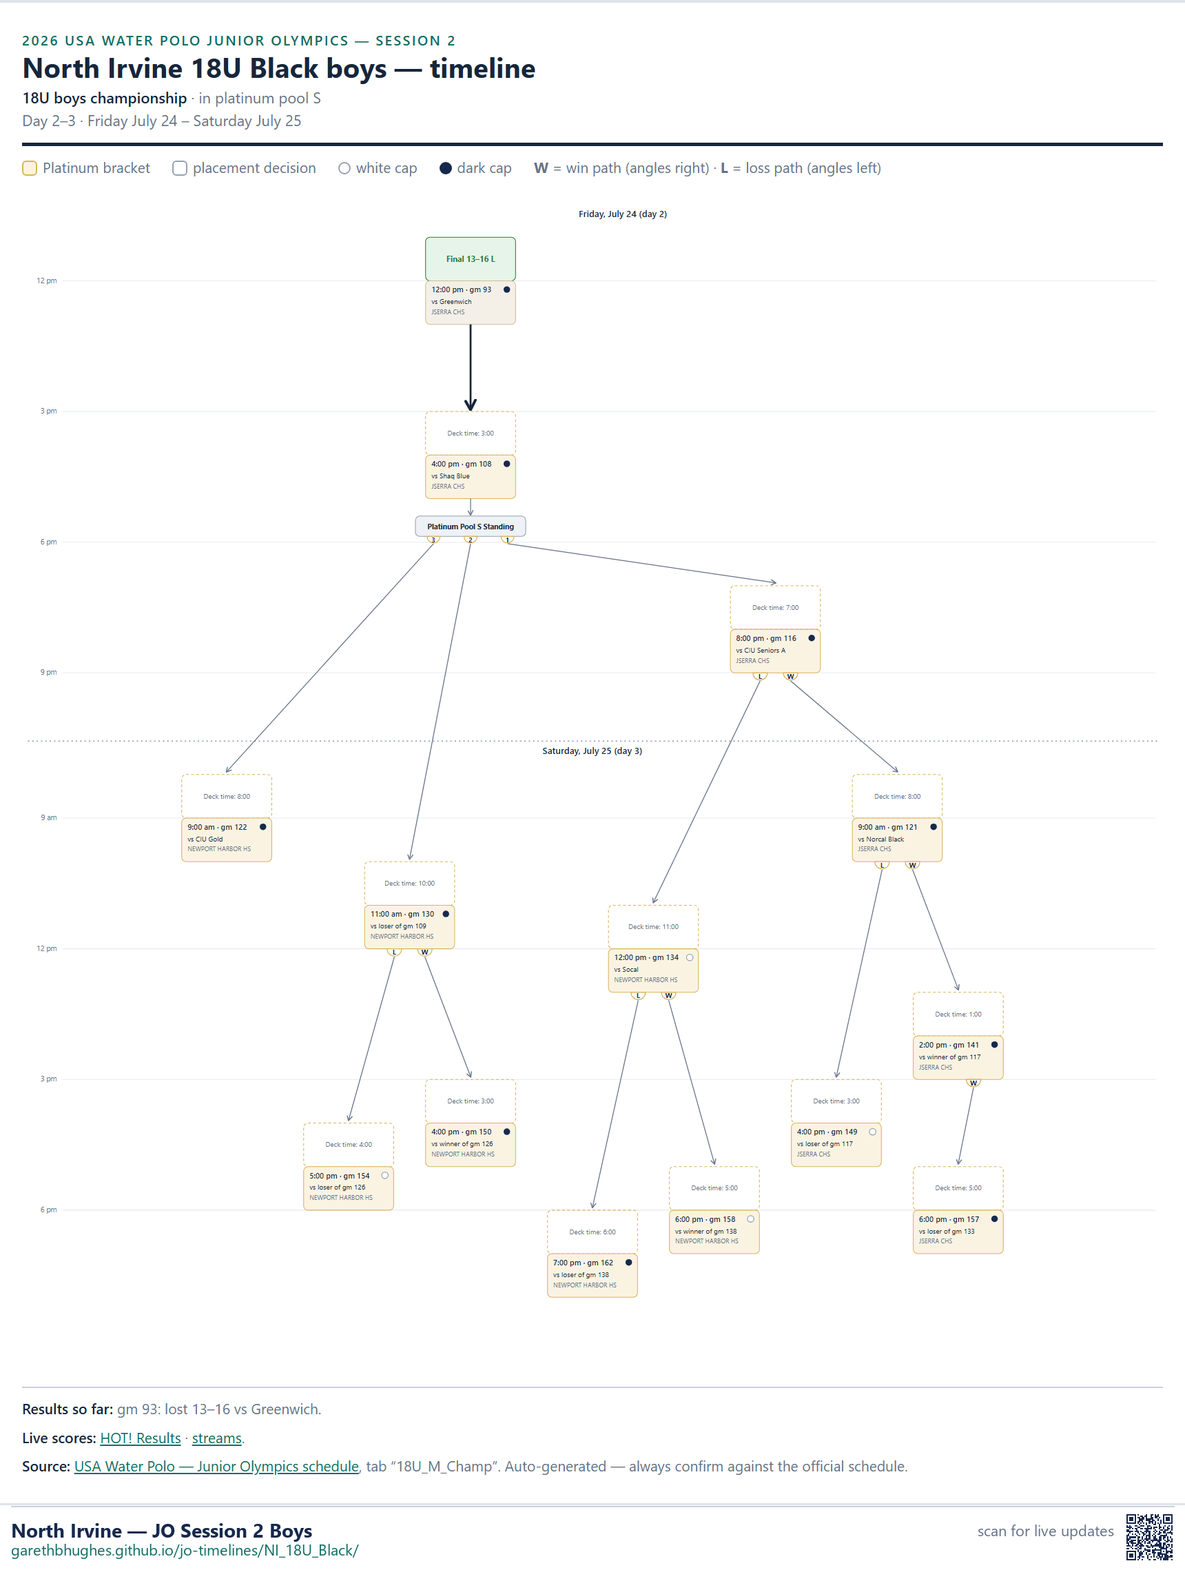
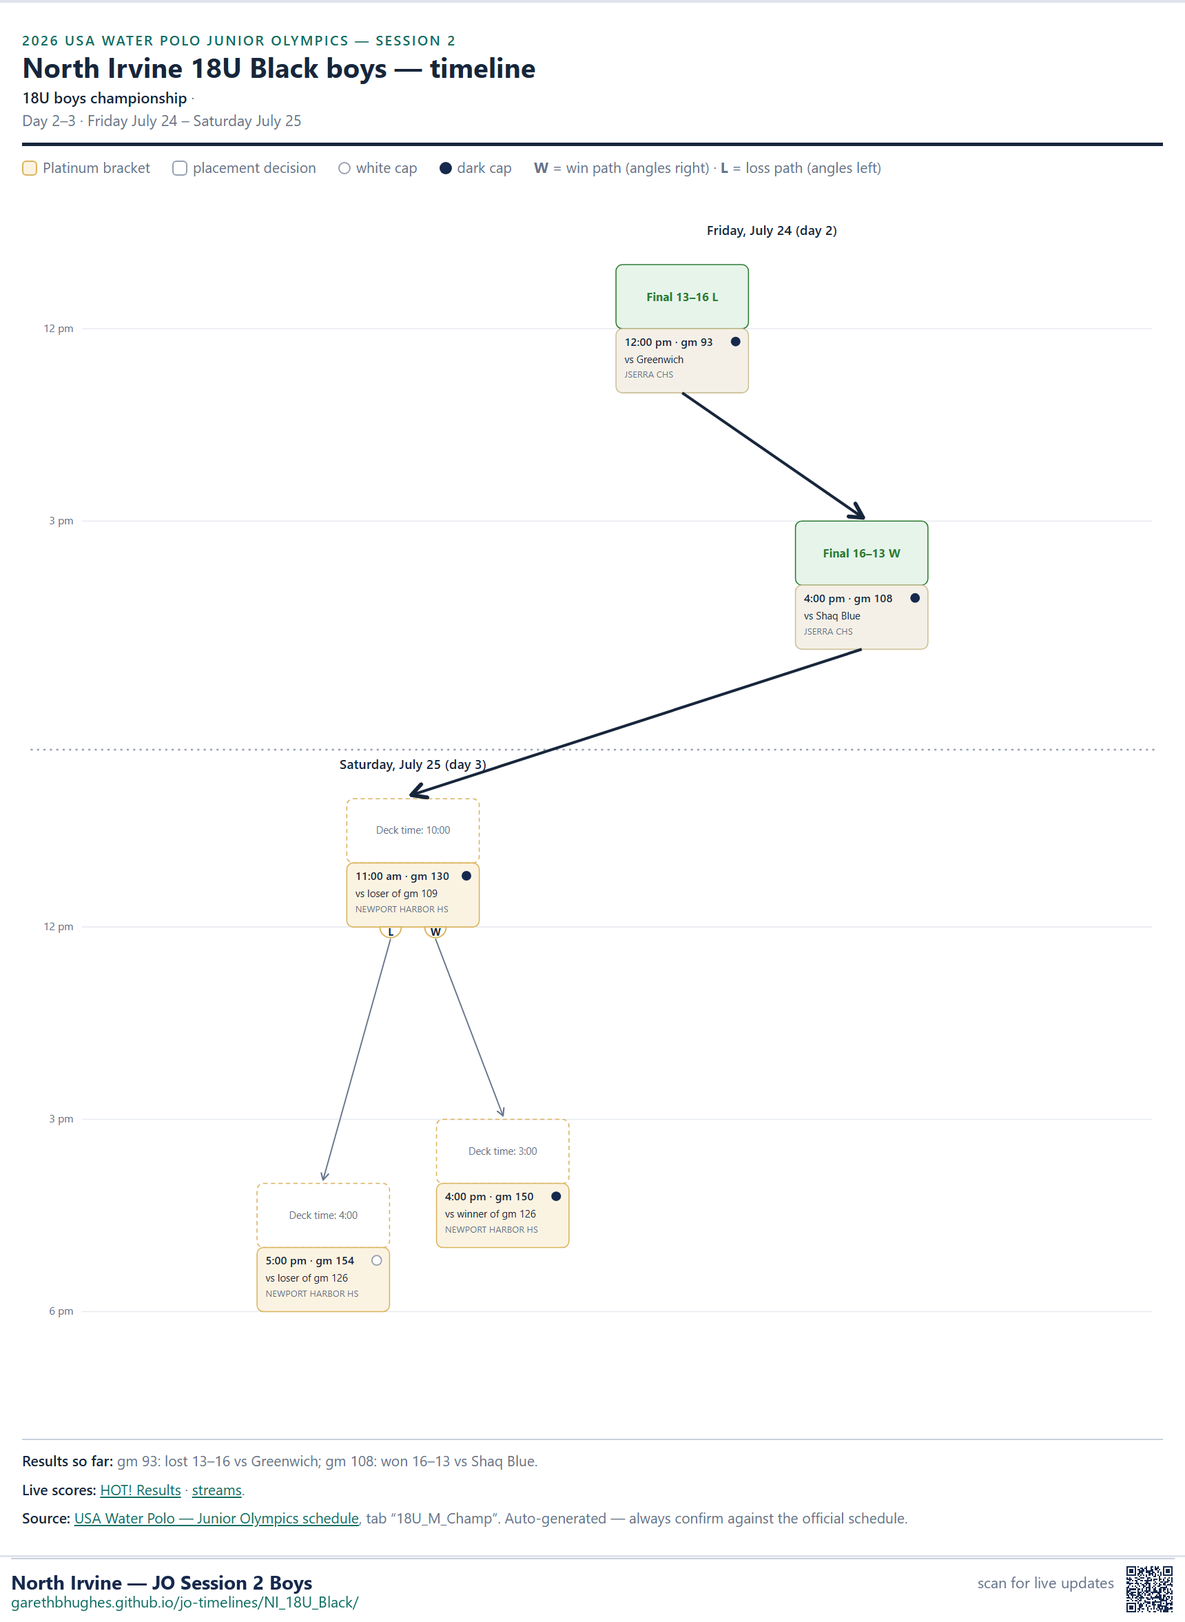
refresh 2026-07-24T18:23

diff --git a/NI_18U_Black/index.html b/NI_18U_Black/index.html
@@ -55,11 +55,11 @@ h2 { font-size:14px; text-transform:uppercase; letter-spacing:.06em; color:var(-
 <a class="back" href="../">← all North Irvine teams</a>
 <header class="site" style="margin-top:8px"><p class="eyebrow">2026 USA Water Polo Junior Olympics — Session 2</p>
 <h1>North Irvine 18U Black boys</h1>
-<p class="stamp"><b>18U boys championship</b> · in platinum pool S<br>
-Last verified against the master schedule at Friday July 24, 6:08 PM</p></header>
-<div class="next"><p class="next-h">Next game</p><p class="next-opp">vs Shaq Blue</p><dl class="next-grid"><dt>When</dt><dd>Friday July 24 · 4:00 pm</dd><dt>Deck</dt><dd>3:00</dd><dt>Where</dt><dd>JSERRA CHS</dd><dt>Caps</dt><dd>dark caps</dd><dt>Game</dt><dd>#108</dd></dl><p class="scout"><b>Scouting report:</b> Shaq Blue (seed 29) is 2–2 in this session so far — beat Pegasus Blue 20–8; beat Foothill Red A 15–7; lost to La Jolla United A 7–13; lost to Greenwich 7–12. They&#x27;re averaging 12.2 goals for and 10 against. Common opponent Greenwich: you lost 13–16, they lost 7–12.</p></div>
+<p class="stamp"><b>18U boys championship</b> · <br>
+Last verified against the master schedule at Friday July 24, 6:23 PM</p></header>
+<div class="next"><p class="next-h">Next game</p><p class="next-opp">vs loser of gm 109</p><dl class="next-grid"><dt>When</dt><dd>Saturday July 25 · 11:00 am</dd><dt>Deck</dt><dd>10:00</dd><dt>Where</dt><dd>NEWPORT HARBOR HS</dd><dt>Caps</dt><dd>dark caps</dd><dt>Game</dt><dd>#130</dd></dl></div>
 
 <img class="tl" src="portrait.png" alt="Upcoming games timeline for North Irvine 18U Black boys">
-<h2>Change log</h2><ul class="log"><li><time>4:52 PM</time>Game 121 set: vs Norcal Black, 9:00 am at JSERRA CHS.</li><li><time>4:52 PM</time>Game 122 set: vs CIU Gold, 9:00 am at NEWPORT HARBOR HS.</li><li><time>4:52 PM</time>Game 134 set: vs Socal, 12:00 pm at NEWPORT HARBOR HS.</li><li><time>4:52 PM</time>Game 116 set: vs CIU Seniors A, 8:00 pm at JSERRA CHS.</li><li><time>3:31 PM</time>Game 93 score updated (vs Greenwich).</li><li><time>3:31 PM</time>Game 108 set: vs Shaq Blue, 4:00 pm at JSERRA CHS.</li><li><time>3:27 PM</time>Game 93 score updated (vs Greenwich).</li><li><time>3:27 PM</time>Game 108 set: vs Shaq Blue, 4:00 pm at JSERRA CHS.</li><li><time>7:00 AM</time>Game 11 score updated (vs San Francisco Warriors).</li><li><time>7:00 AM</time>Game 77 score updated (vs gold pool S).</li><li><time>7:00 AM</time>Game 79 score updated (vs platinum pool O).</li><li><time>7:00 AM</time>Game 93 score updated (vs platinum pool S).</li><li><time>7:00 AM</time>Game 31 score updated (vs winner of gm 6).</li><li><time>7:00 AM</time>Game 87 score updated (vs gold pool O).</li><li><time>7:00 AM</time>Game 89 score updated (vs platinum pool R).</li><li><time>7:00 AM</time>Game 91 score updated (vs gold pool P).</li><li><time>7:00 AM</time>Game 36 score updated (vs loser of gm 6).</li><li><time>7:00 AM</time>Game 92 set: vs gold pool S, 2:00 pm at MARINA HS.</li><li><time>7:00 AM</time>Game 94 set: vs platinum pool O, 2:00 pm at NORTHWOOD HS.</li><li><time>7:00 AM</time>Game 104 set: vs platinum pool R, 4:00 pm at NORTHWOOD HS.</li><li><time>7:00 AM</time>Game 106 set: vs gold pool P, 4:00 pm at WESTMINSTER HS.</li><li><time>7:00 AM</time>Game 107 set: vs gold pool O, 4:00 pm at MARINA HS.</li><li><time>7:00 AM</time>Game 108 set: vs platinum pool S, 4:00 pm at JSERRA CHS.</li><li><time>7:00 AM</time>Game 51 score updated (vs loser of gm 41).</li><li><time>7:00 AM</time>Game 56 score updated (vs winner of gm 45).</li><li><time>1:56 PM</time>Game 93 score updated (vs Greenwich).</li><li><time>1:11 PM</time>Game 93 set: vs Greenwich, 12:00 pm at JSERRA CHS.</li><li><time>1:11 PM</time>Game 108 set: vs Shaq Blue, 4:00 pm at JSERRA CHS.</li><li><time>7:00 AM</time>Game 11 score updated (vs San Francisco Warriors).</li><li><time>7:00 AM</time>Game 77 set: vs gold pool S, 11:00 am at MARINA HS.</li><li><time>7:00 AM</time>Game 79 score updated (vs platinum pool O).</li><li><time>7:00 AM</time>Game 93 set: vs platinum pool S, 12:00 pm at JSERRA CHS.</li><li><time>7:00 AM</time>Game 31 score updated (vs winner of gm 6).</li><li><time>7:00 AM</time>Game 87 set: vs gold pool O, 1:00 pm at MARINA HS.</li><li><time>7:00 AM</time>Game 89 set: vs platinum pool R, 1:00 pm at NORTHWOOD HS.</li><li><time>7:00 AM</time>Game 91 set: vs gold pool P, 1:00 pm at WESTMINSTER HS.</li><li><time>7:00 AM</time>Game 36 score updated (vs loser of gm 6).</li><li><time>7:00 AM</time>Game 92 set: vs gold pool S, 2:00 pm at MARINA HS.</li><li><time>7:00 AM</time>Game 94 set: vs platinum pool O, 2:00 pm at NORTHWOOD HS.</li><li><time>7:00 AM</time>Game 104 set: vs platinum pool R, 4:00 pm at NORTHWOOD HS.</li></ul>
-<div class="fineprint"><p><b>Results so far:</b> gm 93: lost 13–16 vs Greenwich.</p><p><b>Live scores:</b> <a href="https://kahunaevents.org">HOT! Results</a> · <a href="https://gols.co/2026-usawp-junior-olympics-session-2/">streams</a>.</p><p><b>Source:</b> <a href="https://usawaterpolo.org/sports/2018/12/19/junior-olympics.aspx#schedule">USA Water Polo — Junior Olympics schedule</a>, tab “18U_M_Champ”. Auto-generated — always confirm against the official schedule.</p></div>
+<h2>Change log</h2><ul class="log"><li><time>6:23 PM</time>Game 130 set: vs loser of gm 109, 11:00 am at NEWPORT HARBOR HS.</li><li><time>6:23 PM</time>Game 108 score updated (vs Shaq Blue).</li><li><time>4:52 PM</time>Game 121 set: vs Norcal Black, 9:00 am at JSERRA CHS.</li><li><time>4:52 PM</time>Game 122 set: vs CIU Gold, 9:00 am at NEWPORT HARBOR HS.</li><li><time>4:52 PM</time>Game 134 set: vs Socal, 12:00 pm at NEWPORT HARBOR HS.</li><li><time>4:52 PM</time>Game 116 set: vs CIU Seniors A, 8:00 pm at JSERRA CHS.</li><li><time>3:31 PM</time>Game 93 score updated (vs Greenwich).</li><li><time>3:31 PM</time>Game 108 set: vs Shaq Blue, 4:00 pm at JSERRA CHS.</li><li><time>3:27 PM</time>Game 93 score updated (vs Greenwich).</li><li><time>3:27 PM</time>Game 108 set: vs Shaq Blue, 4:00 pm at JSERRA CHS.</li><li><time>7:00 AM</time>Game 11 score updated (vs San Francisco Warriors).</li><li><time>7:00 AM</time>Game 77 score updated (vs gold pool S).</li><li><time>7:00 AM</time>Game 79 score updated (vs platinum pool O).</li><li><time>7:00 AM</time>Game 93 score updated (vs platinum pool S).</li><li><time>7:00 AM</time>Game 31 score updated (vs winner of gm 6).</li><li><time>7:00 AM</time>Game 87 score updated (vs gold pool O).</li><li><time>7:00 AM</time>Game 89 score updated (vs platinum pool R).</li><li><time>7:00 AM</time>Game 91 score updated (vs gold pool P).</li><li><time>7:00 AM</time>Game 36 score updated (vs loser of gm 6).</li><li><time>7:00 AM</time>Game 92 set: vs gold pool S, 2:00 pm at MARINA HS.</li><li><time>7:00 AM</time>Game 94 set: vs platinum pool O, 2:00 pm at NORTHWOOD HS.</li><li><time>7:00 AM</time>Game 104 set: vs platinum pool R, 4:00 pm at NORTHWOOD HS.</li><li><time>7:00 AM</time>Game 106 set: vs gold pool P, 4:00 pm at WESTMINSTER HS.</li><li><time>7:00 AM</time>Game 107 set: vs gold pool O, 4:00 pm at MARINA HS.</li><li><time>7:00 AM</time>Game 108 set: vs platinum pool S, 4:00 pm at JSERRA CHS.</li><li><time>7:00 AM</time>Game 51 score updated (vs loser of gm 41).</li><li><time>7:00 AM</time>Game 56 score updated (vs winner of gm 45).</li><li><time>1:56 PM</time>Game 93 score updated (vs Greenwich).</li><li><time>1:11 PM</time>Game 93 set: vs Greenwich, 12:00 pm at JSERRA CHS.</li><li><time>1:11 PM</time>Game 108 set: vs Shaq Blue, 4:00 pm at JSERRA CHS.</li><li><time>7:00 AM</time>Game 11 score updated (vs San Francisco Warriors).</li><li><time>7:00 AM</time>Game 77 set: vs gold pool S, 11:00 am at MARINA HS.</li><li><time>7:00 AM</time>Game 79 score updated (vs platinum pool O).</li><li><time>7:00 AM</time>Game 93 set: vs platinum pool S, 12:00 pm at JSERRA CHS.</li><li><time>7:00 AM</time>Game 31 score updated (vs winner of gm 6).</li><li><time>7:00 AM</time>Game 87 set: vs gold pool O, 1:00 pm at MARINA HS.</li><li><time>7:00 AM</time>Game 89 set: vs platinum pool R, 1:00 pm at NORTHWOOD HS.</li><li><time>7:00 AM</time>Game 91 set: vs gold pool P, 1:00 pm at WESTMINSTER HS.</li><li><time>7:00 AM</time>Game 36 score updated (vs loser of gm 6).</li><li><time>7:00 AM</time>Game 92 set: vs gold pool S, 2:00 pm at MARINA HS.</li></ul>
+<div class="fineprint"><p><b>Results so far:</b> gm 93: lost 13–16 vs Greenwich; gm 108: won 16–13 vs Shaq Blue.</p><p><b>Live scores:</b> <a href="https://kahunaevents.org">HOT! Results</a> · <a href="https://gols.co/2026-usawp-junior-olympics-session-2/">streams</a>.</p><p><b>Source:</b> <a href="https://usawaterpolo.org/sports/2018/12/19/junior-olympics.aspx#schedule">USA Water Polo — Junior Olympics schedule</a>, tab “18U_M_Champ”. Auto-generated — always confirm against the official schedule.</p></div>
 </div></body></html>

diff --git a/NI_12U_Red/index.html b/NI_12U_Red/index.html
@@ -56,10 +56,10 @@ h2 { font-size:14px; text-transform:uppercase; letter-spacing:.06em; color:var(-
 <header class="site" style="margin-top:8px"><p class="eyebrow">2026 USA Water Polo Junior Olympics — Session 2</p>
 <h1>North Irvine 12U Red boys</h1>
 <p class="stamp"><b>12U boys classic</b> · in bronze pool S<br>
-Last verified against the master schedule at Friday July 24, 6:08 PM</p></header>
+Last verified against the master schedule at Friday July 24, 6:23 PM</p></header>
 <div class="next"><p class="next-h">Next game</p><p class="next-opp">vs 1st in bronze pool M</p><dl class="next-grid"><dt>When</dt><dd>Saturday July 25 · 9:40 am</dd><dt>Deck</dt><dd>8:40</dd><dt>Where</dt><dd>GOLDEN WEST COLLEGE 2</dd><dt>Caps</dt><dd>cap TBD</dd><dt>Game</dt><dd>#116</dd></dl></div>
 
 <img class="tl" src="portrait.png" alt="Upcoming games timeline for North Irvine 12U Red boys">
-<h2>Change log</h2><ul class="log"><li><time>4:36 PM</time>Game 132 set: vs bronze pool V, 1:50 pm at OCEAN VIEW HS 2.</li><li><time>4:21 PM</time>Game 116 set: vs 1st in bronze pool M, 9:40 am at GOLDEN WEST COLLEGE 2.</li><li><time>4:21 PM</time>Game 131 set: vs 2nd in bronze pool M, 9:40 am at LAGUNA HILLS HS.</li><li><time>4:21 PM</time>Game 97 score updated (vs American River).</li><li><time>3:31 PM</time>Game 81 score updated (vs Foothill Black).</li><li><time>3:31 PM</time>Game 97 set: vs American River, 2:30 pm at OCEAN VIEW HS 2.</li><li><time>3:31 PM</time>Game 111 set: vs Orwp RED, 5:50 pm at OCEAN VIEW HS 2.</li><li><time>3:27 PM</time>Game 81 score updated (vs Foothill Black).</li><li><time>3:27 PM</time>Game 97 set: vs American River, 2:30 pm at OCEAN VIEW HS 2.</li><li><time>3:27 PM</time>Game 111 set: vs Orwp RED, 5:50 pm at OCEAN VIEW HS 2.</li><li><time>7:00 AM</time>Game 67 score updated (vs ag_N2(1stO)-).</li><li><time>7:00 AM</time>Game 27 score updated (vs CC United White).</li><li><time>7:00 AM</time>Game 81 score updated (vs bronze pool S).</li><li><time>7:00 AM</time>Game 83 score updated (vs ag_N1(1stB)-).</li><li><time>7:00 AM</time>Game 46 score updated (vs Mission B).</li><li><time>7:00 AM</time>Game 60 score updated (vs 2nd N).</li><li><time>1:11 PM</time>Game 81 score updated (vs Foothill Black).</li><li><time>1:11 PM</time>Game 97 set: vs American River, 2:30 pm at OCEAN VIEW HS 2.</li><li><time>1:11 PM</time>Game 111 set: vs Orwp RED, 5:50 pm at OCEAN VIEW HS 2.</li><li><time>7:00 AM</time>Game 67 score updated (vs ag_N2(1stO)-).</li><li><time>7:00 AM</time>Game 27 score updated (vs CC United White).</li><li><time>7:00 AM</time>Game 81 score updated (vs bronze pool S).</li><li><time>7:00 AM</time>Game 83 set: vs ag_N1(1stB)-, 12:50 pm at GOLDEN WEST COLLEGE 2.</li><li><time>7:00 AM</time>Game 46 score updated (vs Mission B).</li><li><time>7:00 AM</time>Game 60 score updated (vs 2nd N).</li><li><time>12:40 PM</time>Game 81 score updated (vs Foothill Black).</li><li><time>12:40 PM</time>Game 97 set: vs American River, 2:30 pm at OCEAN VIEW HS 2.</li><li><time>12:40 PM</time>Game 111 set: vs Orwp RED, 5:50 pm at OCEAN VIEW HS 2.</li><li><time>12:25 PM</time>Game 97 set: vs American River, 2:30 pm at OCEAN VIEW HS 2.</li><li><time>12:25 PM</time>Game 111 set: vs Orwp RED, 5:50 pm at OCEAN VIEW HS 2.</li><li><time>11:36 AM</time>Game 81 set: vs Foothill Black, 11:10 am at OCEAN VIEW HS 2.</li><li><time>7:00 AM</time>Game 67 score updated (vs ag_N2(1stO)-).</li><li><time>7:00 AM</time>Game 27 score updated (vs CC United White).</li><li><time>7:00 AM</time>Game 81 set: vs bronze pool S, 11:10 am at OCEAN VIEW HS 2.</li><li><time>7:00 AM</time>Game 83 set: vs ag_N1(1stB)-, 12:50 pm at GOLDEN WEST COLLEGE 2.</li><li><time>7:00 AM</time>Game 46 score updated (vs Mission B).</li><li><time>7:00 AM</time>Game 60 score updated (vs 2nd N).</li><li><time>9:53 AM</time>Game 81 set: vs Foothill Black, 11:10 am at OCEAN VIEW HS 2.</li><li><time>7:00 AM</time>Game 67 set: vs ag_N2(1stO)-, 9:30 am at GOLDEN WEST COLLEGE 2.</li><li><time>7:00 AM</time>Game 27 score updated (vs CC United White).</li></ul>
+<h2>Change log</h2><ul class="log"><li><time>6:23 PM</time>Game 135 set: vs bronze pool V, 11:20 am at OCEAN VIEW HS 2.</li><li><time>4:36 PM</time>Game 132 set: vs bronze pool V, 1:50 pm at OCEAN VIEW HS 2.</li><li><time>4:21 PM</time>Game 116 set: vs 1st in bronze pool M, 9:40 am at GOLDEN WEST COLLEGE 2.</li><li><time>4:21 PM</time>Game 131 set: vs 2nd in bronze pool M, 9:40 am at LAGUNA HILLS HS.</li><li><time>4:21 PM</time>Game 97 score updated (vs American River).</li><li><time>3:31 PM</time>Game 81 score updated (vs Foothill Black).</li><li><time>3:31 PM</time>Game 97 set: vs American River, 2:30 pm at OCEAN VIEW HS 2.</li><li><time>3:31 PM</time>Game 111 set: vs Orwp RED, 5:50 pm at OCEAN VIEW HS 2.</li><li><time>3:27 PM</time>Game 81 score updated (vs Foothill Black).</li><li><time>3:27 PM</time>Game 97 set: vs American River, 2:30 pm at OCEAN VIEW HS 2.</li><li><time>3:27 PM</time>Game 111 set: vs Orwp RED, 5:50 pm at OCEAN VIEW HS 2.</li><li><time>7:00 AM</time>Game 67 score updated (vs ag_N2(1stO)-).</li><li><time>7:00 AM</time>Game 27 score updated (vs CC United White).</li><li><time>7:00 AM</time>Game 81 score updated (vs bronze pool S).</li><li><time>7:00 AM</time>Game 83 score updated (vs ag_N1(1stB)-).</li><li><time>7:00 AM</time>Game 46 score updated (vs Mission B).</li><li><time>7:00 AM</time>Game 60 score updated (vs 2nd N).</li><li><time>1:11 PM</time>Game 81 score updated (vs Foothill Black).</li><li><time>1:11 PM</time>Game 97 set: vs American River, 2:30 pm at OCEAN VIEW HS 2.</li><li><time>1:11 PM</time>Game 111 set: vs Orwp RED, 5:50 pm at OCEAN VIEW HS 2.</li><li><time>7:00 AM</time>Game 67 score updated (vs ag_N2(1stO)-).</li><li><time>7:00 AM</time>Game 27 score updated (vs CC United White).</li><li><time>7:00 AM</time>Game 81 score updated (vs bronze pool S).</li><li><time>7:00 AM</time>Game 83 set: vs ag_N1(1stB)-, 12:50 pm at GOLDEN WEST COLLEGE 2.</li><li><time>7:00 AM</time>Game 46 score updated (vs Mission B).</li><li><time>7:00 AM</time>Game 60 score updated (vs 2nd N).</li><li><time>12:40 PM</time>Game 81 score updated (vs Foothill Black).</li><li><time>12:40 PM</time>Game 97 set: vs American River, 2:30 pm at OCEAN VIEW HS 2.</li><li><time>12:40 PM</time>Game 111 set: vs Orwp RED, 5:50 pm at OCEAN VIEW HS 2.</li><li><time>12:25 PM</time>Game 97 set: vs American River, 2:30 pm at OCEAN VIEW HS 2.</li><li><time>12:25 PM</time>Game 111 set: vs Orwp RED, 5:50 pm at OCEAN VIEW HS 2.</li><li><time>11:36 AM</time>Game 81 set: vs Foothill Black, 11:10 am at OCEAN VIEW HS 2.</li><li><time>7:00 AM</time>Game 67 score updated (vs ag_N2(1stO)-).</li><li><time>7:00 AM</time>Game 27 score updated (vs CC United White).</li><li><time>7:00 AM</time>Game 81 set: vs bronze pool S, 11:10 am at OCEAN VIEW HS 2.</li><li><time>7:00 AM</time>Game 83 set: vs ag_N1(1stB)-, 12:50 pm at GOLDEN WEST COLLEGE 2.</li><li><time>7:00 AM</time>Game 46 score updated (vs Mission B).</li><li><time>7:00 AM</time>Game 60 score updated (vs 2nd N).</li><li><time>9:53 AM</time>Game 81 set: vs Foothill Black, 11:10 am at OCEAN VIEW HS 2.</li><li><time>7:00 AM</time>Game 67 set: vs ag_N2(1stO)-, 9:30 am at GOLDEN WEST COLLEGE 2.</li></ul>
 <div class="fineprint"><p><b>Results so far:</b> gm 81: won 13–6 vs Foothill Black; gm 97: lost 3–7 vs American River.</p><p><b>Live scores:</b> <a href="https://kahunaevents.org">HOT! Results</a> · <a href="https://gols.co/2026-usawp-junior-olympics-session-2/">streams</a>.</p><p><b>Source:</b> <a href="https://usawaterpolo.org/sports/2018/12/19/junior-olympics.aspx#schedule">USA Water Polo — Junior Olympics schedule</a>, tab “12U_M_Classic_53”. Auto-generated — always confirm against the official schedule.</p></div>
 </div></body></html>

diff --git a/index.html b/index.html
@@ -54,7 +54,7 @@ h2 { font-size:14px; text-transform:uppercase; letter-spacing:.06em; color:var(-
 </style></head><body><div class="wrap">
 <header class="site"><p class="eyebrow">2026 USA Water Polo Junior Olympics — Session 2</p>
 <h1>North Irvine — JO Session 2 Boys</h1>
-<p class="stamp">Last refreshed Friday July 24, 6:08 PM · auto-updates from the master schedule</p></header>
+<p class="stamp">Last refreshed Friday July 24, 6:23 PM · auto-updates from the master schedule</p></header>
 <p>Tap your team for the up-to-date timeline (win/loss paths, times, venues, deck times):</p>
 <ul class="teams"><a href="NI_12U_Black/"><span>North Irvine 12U Black boys</span><span class="div">12U boys championship →</span></a><a href="NI_14U_Black/"><span>North Irvine 14U Black boys</span><span class="div">14U boys championship →</span></a><a href="NI_18U_Black/"><span>North Irvine 18U Black boys</span><span class="div">18U boys championship →</span></a><a href="NI_18U_Red/"><span>North Irvine 18U Red boys</span><span class="div">18U boys championship →</span></a><a href="NI_12U_Red/"><span>North Irvine 12U Red boys</span><span class="div">12U boys classic →</span></a><a href="NI_14U_Red/"><span>North Irvine 14U Red boys</span><span class="div">14U boys invite →</span></a></ul>
 <p class="links"><b>Live scores:</b> <a href="https://kahunaevents.org">HOT! Results</a> ·

diff --git a/NI_14U_Black/index.html b/NI_14U_Black/index.html
@@ -56,7 +56,7 @@ h2 { font-size:14px; text-transform:uppercase; letter-spacing:.06em; color:var(-
 <header class="site" style="margin-top:8px"><p class="eyebrow">2026 USA Water Polo Junior Olympics — Session 2</p>
 <h1>North Irvine 14U Black boys</h1>
 <p class="stamp"><b>14U boys championship</b> · <br>
-Last verified against the master schedule at Friday July 24, 6:08 PM</p></header>
+Last verified against the master schedule at Friday July 24, 6:23 PM</p></header>
 <div class="next"><p class="next-h">Next game</p><p class="next-opp">vs SD Dons 13A Gold</p><dl class="next-grid"><dt>When</dt><dd>Saturday July 25 · 12:00 pm</dd><dt>Deck</dt><dd>11:00</dd><dt>Where</dt><dd>PORTOLA HS 1</dd><dt>Caps</dt><dd>white caps</dd><dt>Game</dt><dd>#135</dd></dl><p class="scout"><b>Scouting report:</b> Sd Dons 13A Gold (seed 21) is 3–2 in this session so far — beat Santa Barbara Wpc A 16–3; beat Greenwich White 15–5; beat Northwest 17–13; lost to La Jolla United 6–12; lost to 680 Red 6–11. They&#x27;re averaging 12 goals for and 8.8 against.</p></div>
 
 <img class="tl" src="portrait.png" alt="Upcoming games timeline for North Irvine 14U Black boys">

diff --git a/NI_14U_Red/index.html b/NI_14U_Red/index.html
@@ -56,7 +56,7 @@ h2 { font-size:14px; text-transform:uppercase; letter-spacing:.06em; color:var(-
 <header class="site" style="margin-top:8px"><p class="eyebrow">2026 USA Water Polo Junior Olympics — Session 2</p>
 <h1>North Irvine 14U Red boys</h1>
 <p class="stamp"><b>14U boys invite</b> · <br>
-Last verified against the master schedule at Friday July 24, 6:08 PM</p></header>
+Last verified against the master schedule at Friday July 24, 6:23 PM</p></header>
 <div class="next"><p class="next-h">Next game</p><p class="next-opp">vs CAL Republic</p><dl class="next-grid"><dt>When</dt><dd>Friday July 24 · 7:30 pm</dd><dt>Deck</dt><dd>6:30</dd><dt>Where</dt><dd>VILLA PARK HS</dd><dt>Caps</dt><dd>white caps</dd><dt>Game</dt><dd>#88</dd></dl><p class="scout"><b>Scouting report:</b> Cal Republic (seed 20) is 4–1 in this session so far — beat San Clemente Black 12–6; beat Tri Valley Tritons 21–7; beat Stanford White 11–6; lost to Vnited 12–14. They&#x27;re averaging 13.2 goals for and 8.2 against.</p></div>
 
 <img class="tl" src="portrait.png" alt="Upcoming games timeline for North Irvine 14U Red boys">

diff --git a/NI_18U_Red/index.html b/NI_18U_Red/index.html
@@ -56,7 +56,7 @@ h2 { font-size:14px; text-transform:uppercase; letter-spacing:.06em; color:var(-
 <header class="site" style="margin-top:8px"><p class="eyebrow">2026 USA Water Polo Junior Olympics — Session 2</p>
 <h1>North Irvine 18U Red boys</h1>
 <p class="stamp"><b>18U boys championship</b> · in gold pool S<br>
-Last verified against the master schedule at Friday July 24, 6:08 PM</p></header>
+Last verified against the master schedule at Friday July 24, 6:23 PM</p></header>
 <div class="next"><p class="next-h">Next game</p><p class="next-opp">vs Punahou</p><dl class="next-grid"><dt>When</dt><dd>Saturday July 25 · 9:00 am</dd><dt>Deck</dt><dd>8:00</dd><dt>Where</dt><dd>WESTMINSTER HS</dd><dt>Caps</dt><dd>dark caps</dd><dt>Game</dt><dd>#124</dd></dl><p class="scout"><b>Scouting report:</b> Punahou (seed 34) is 0–4 in this session so far — lost to Sd Shores Black 8–24; lost to Vnited 9–13; lost to Texas Thunder South Blue 14–16. They&#x27;re averaging 10.5 goals for and 16.8 against.</p></div>
 
 <img class="tl" src="portrait.png" alt="Upcoming games timeline for North Irvine 18U Red boys">

diff --git a/NI_12U_Black/index.html b/NI_12U_Black/index.html
@@ -56,7 +56,7 @@ h2 { font-size:14px; text-transform:uppercase; letter-spacing:.06em; color:var(-
 <header class="site" style="margin-top:8px"><p class="eyebrow">2026 USA Water Polo Junior Olympics — Session 2</p>
 <h1>North Irvine 12U Black boys</h1>
 <p class="stamp"><b>12U boys championship</b> · <br>
-Last verified against the master schedule at Friday July 24, 6:08 PM</p></header>
+Last verified against the master schedule at Friday July 24, 6:23 PM</p></header>
 <div class="next"><p class="next-h">Next game</p><p class="next-opp">vs winner of gm 110</p><dl class="next-grid"><dt>When</dt><dd>Saturday July 25 · 8:00 am</dd><dt>Deck</dt><dd>7:00</dd><dt>Where</dt><dd>ALISO NIGUEL HS</dd><dt>Caps</dt><dd>white caps</dd><dt>Game</dt><dd>#117</dd></dl></div>
 
 <img class="tl" src="portrait.png" alt="Upcoming games timeline for North Irvine 12U Black boys">
